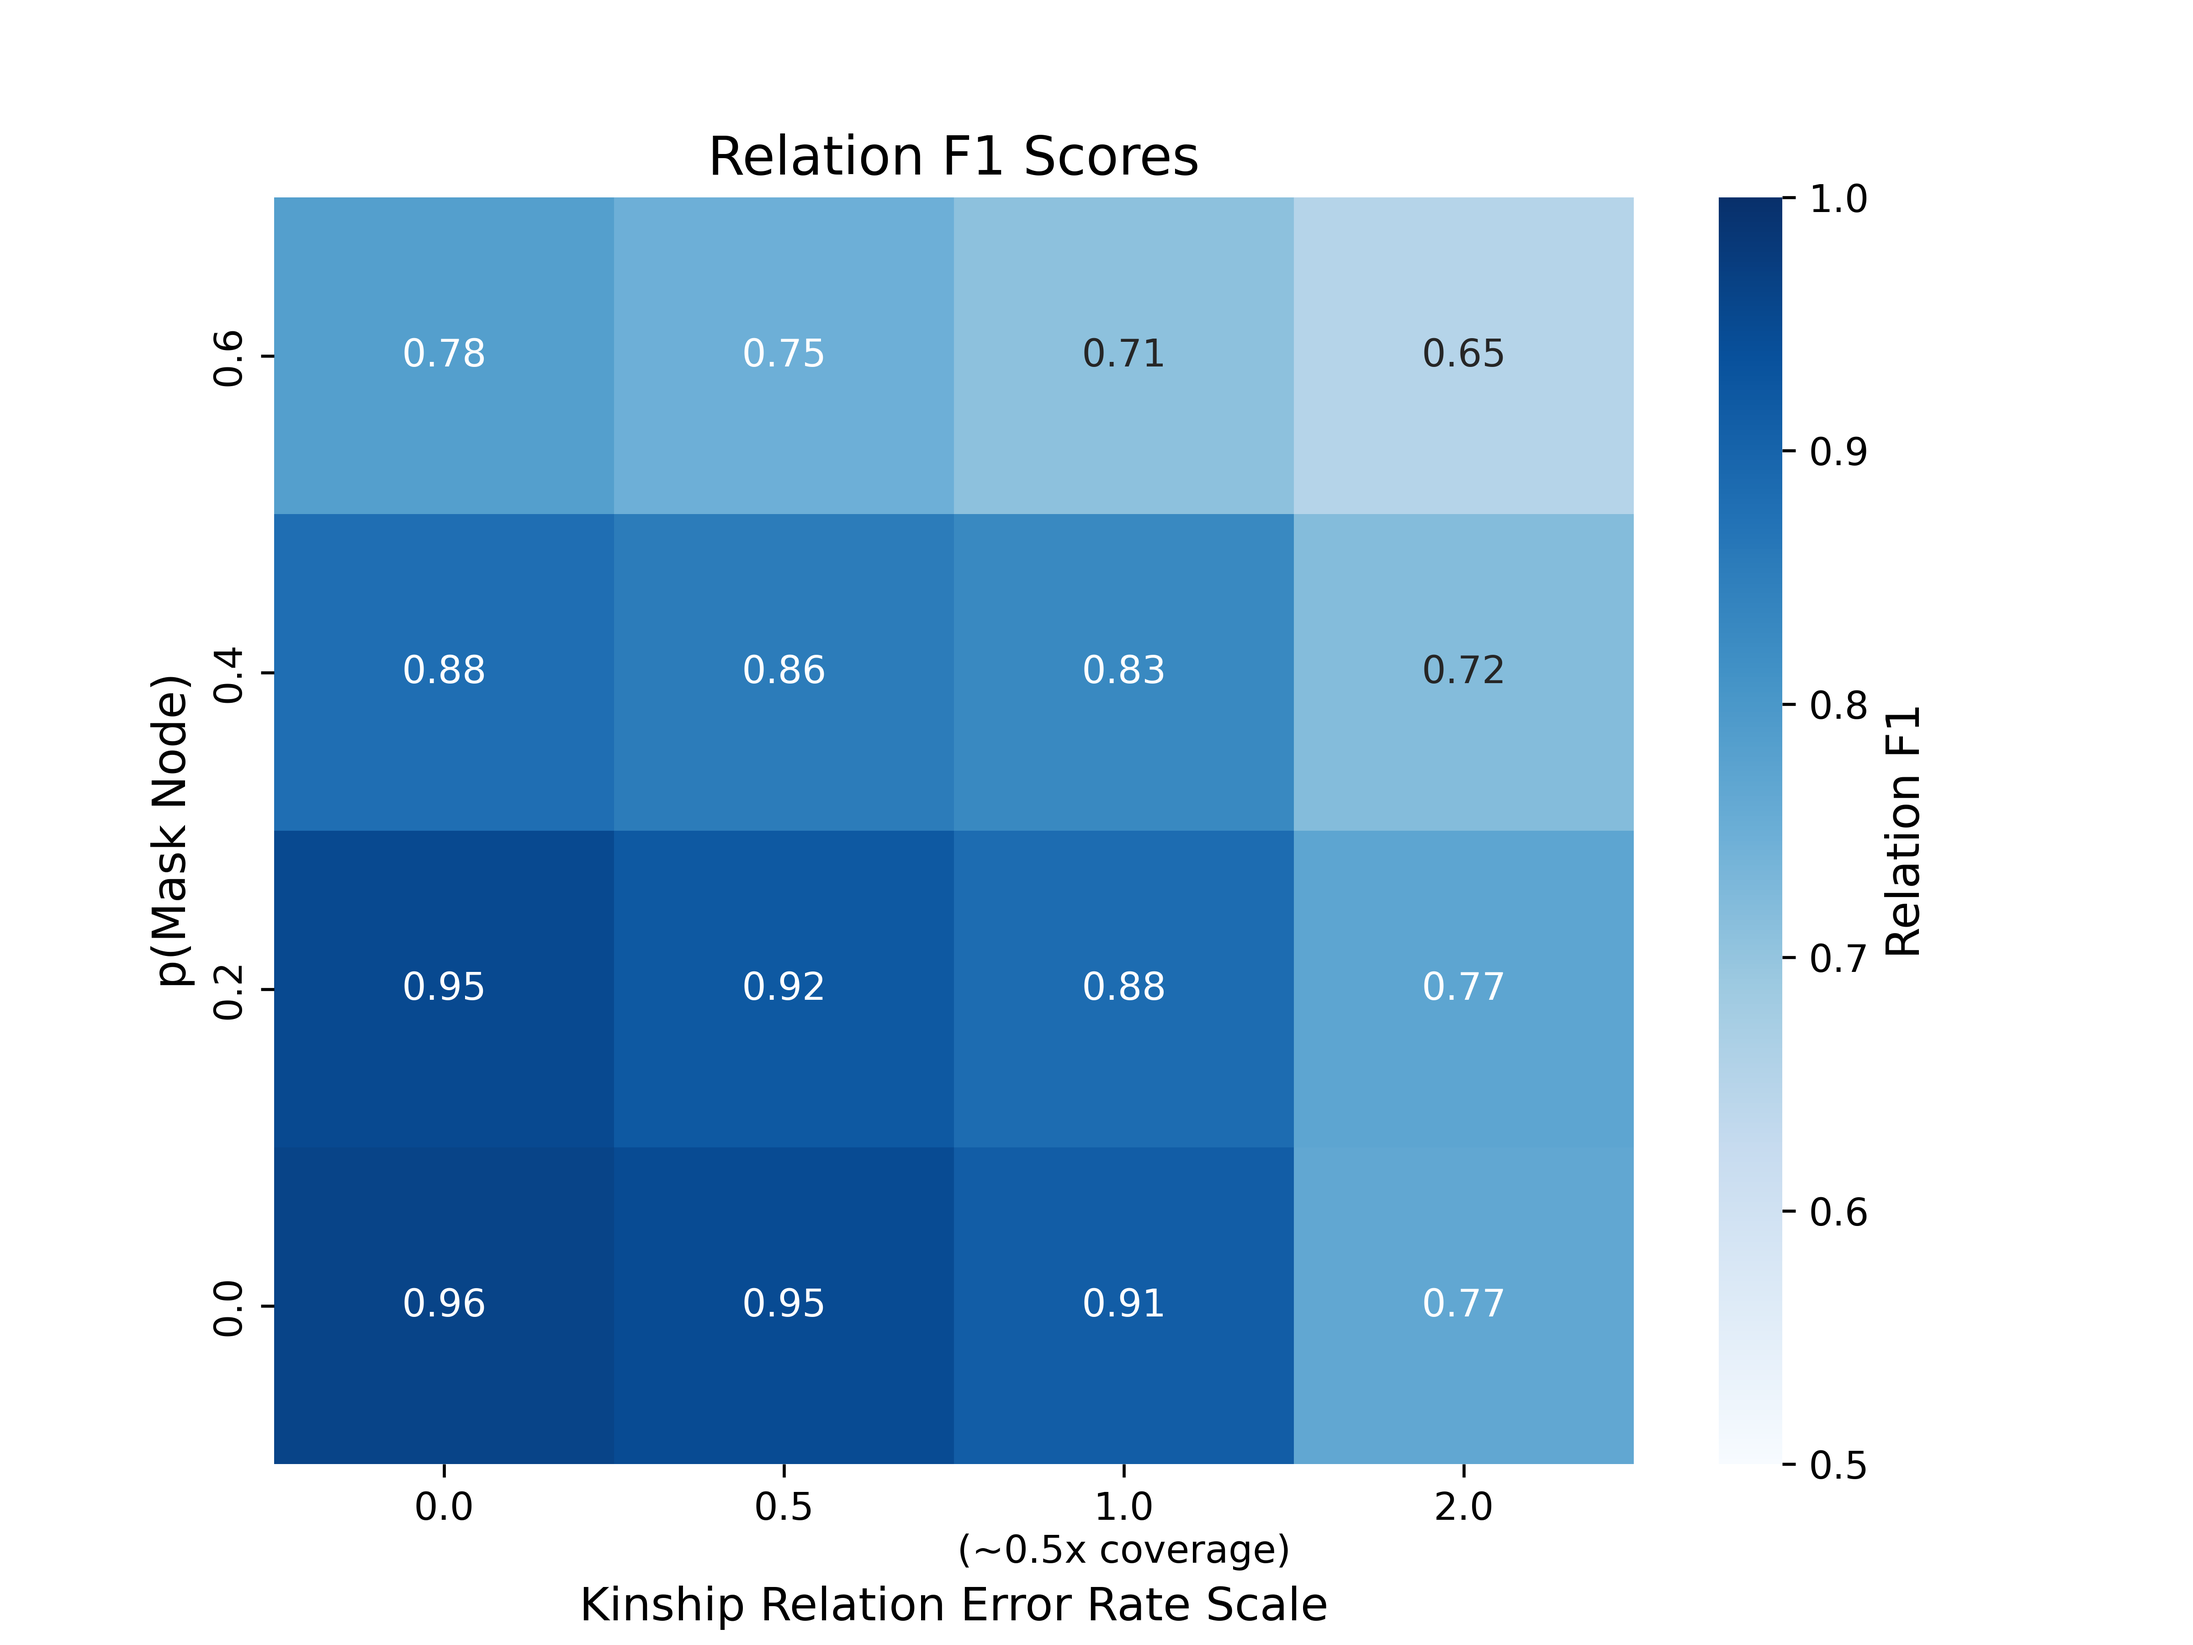
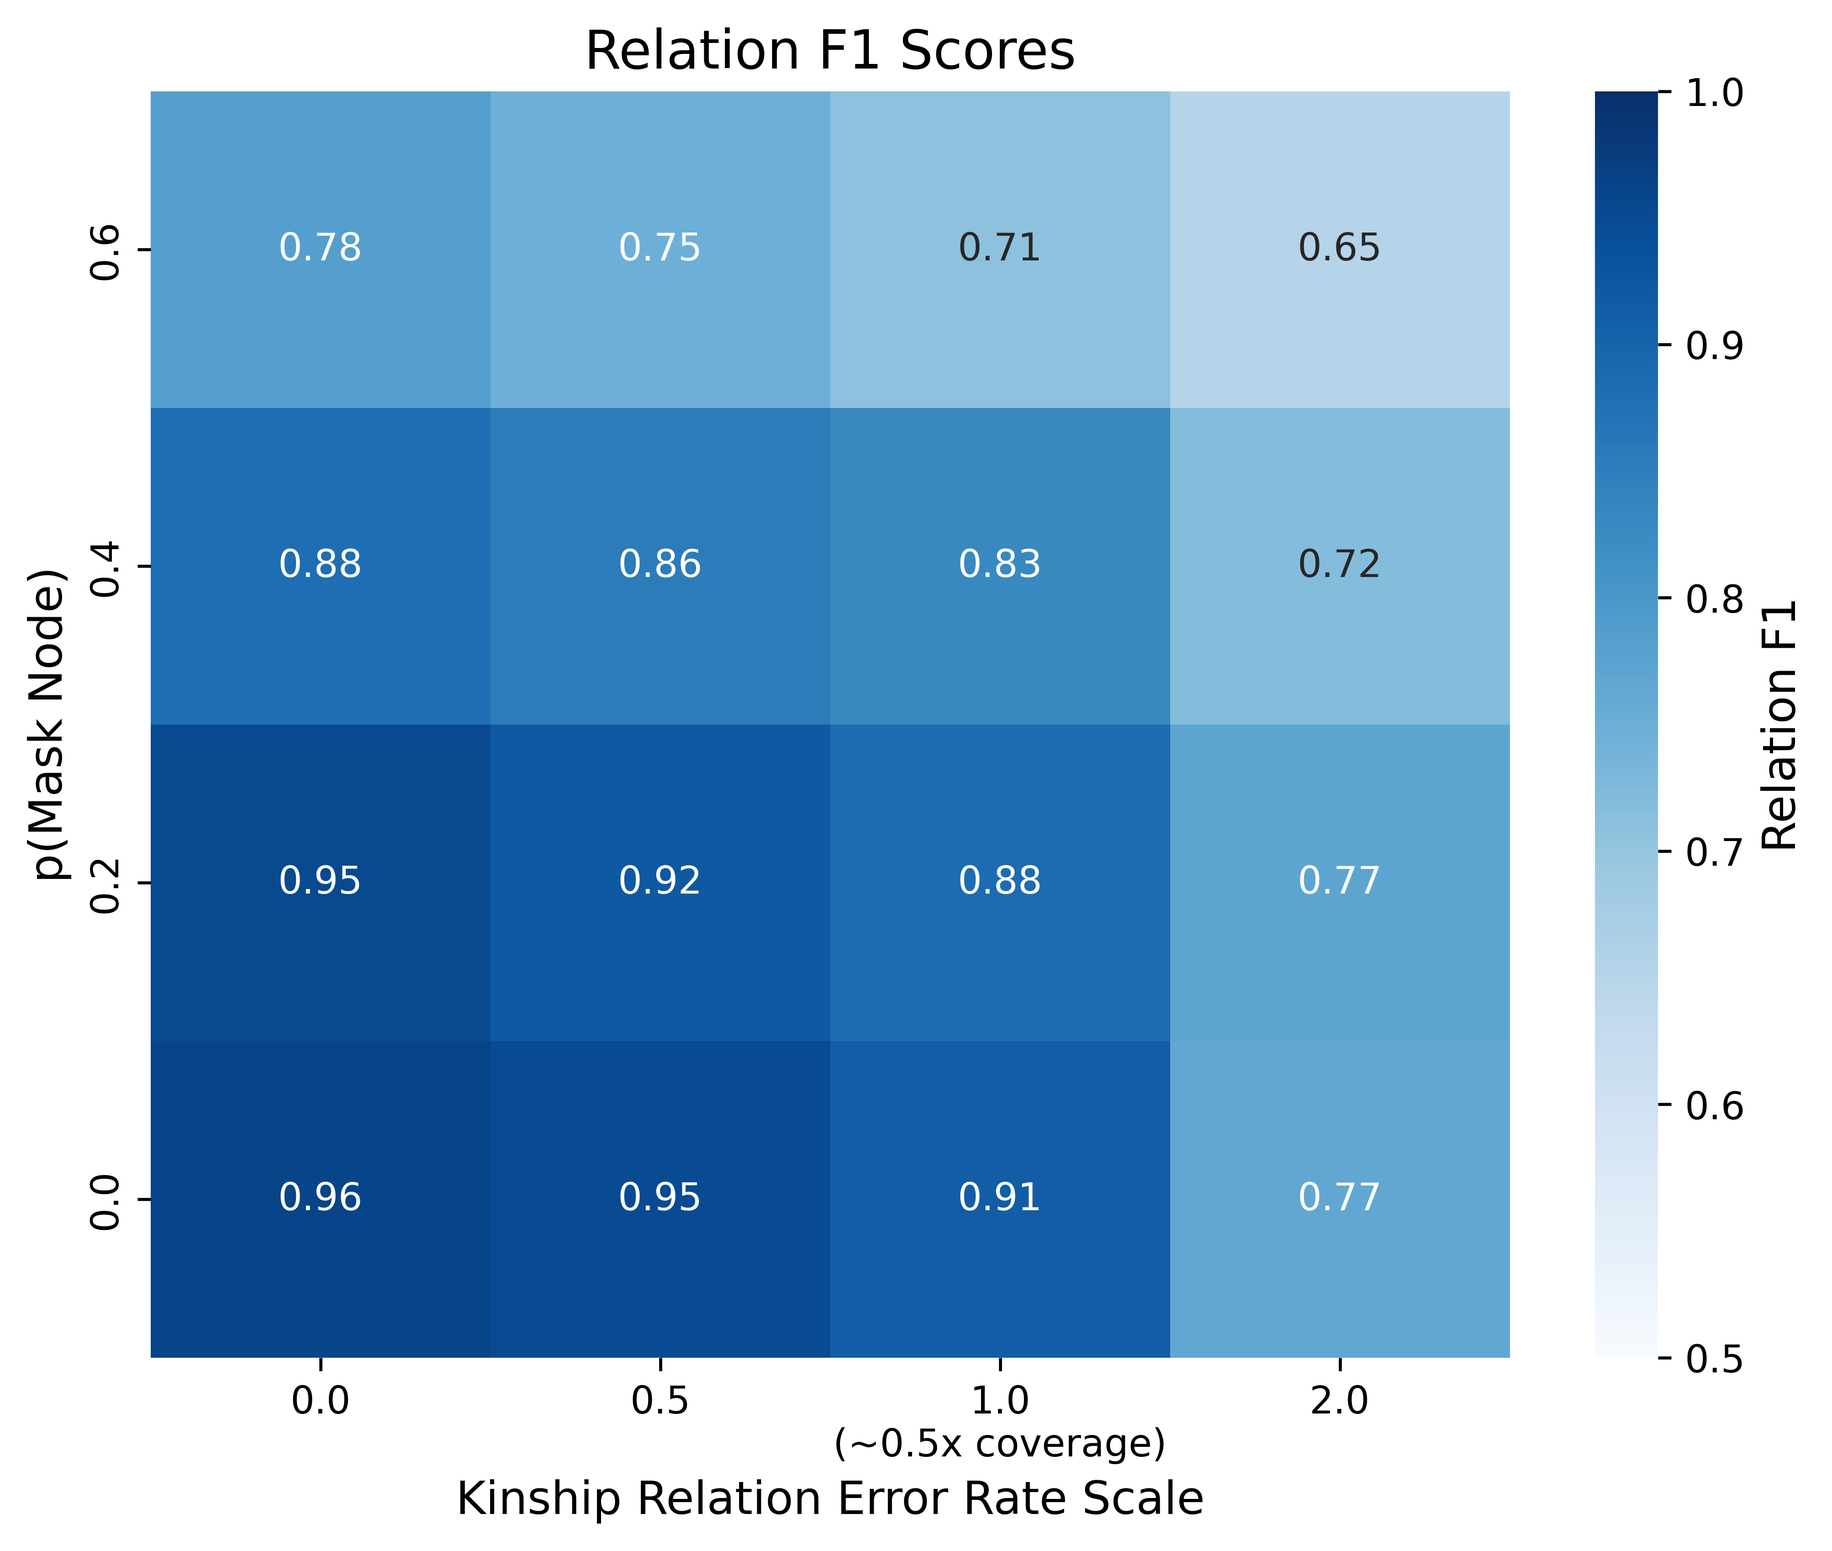
Plot heatmaps with tight bounding boxes

diff --git a/benchmarks/simulations/plot_parameter_data.py b/benchmarks/simulations/plot_parameter_data.py
@@ -90,7 +90,11 @@ def plot_results(results_dir: str) -> None:
         plt.title(f"{metric} Scores", fontsize=14)
         plt.xlabel("Kinship Relation Error Rate Scale", fontsize=12)
         plt.ylabel("p(Mask Node)", fontsize=12)
-        plt.savefig(f"results/parameter_experiment/plots/{metric.lower().replace(' ', '_')}_heatmap.png", dpi=600)
+        plt.savefig(
+            f"results/parameter_experiment/plots/{metric.lower().replace(' ', '_')}_heatmap.png",
+            bbox_inches="tight",
+            dpi=600,
+        )
 
 
 def main():
